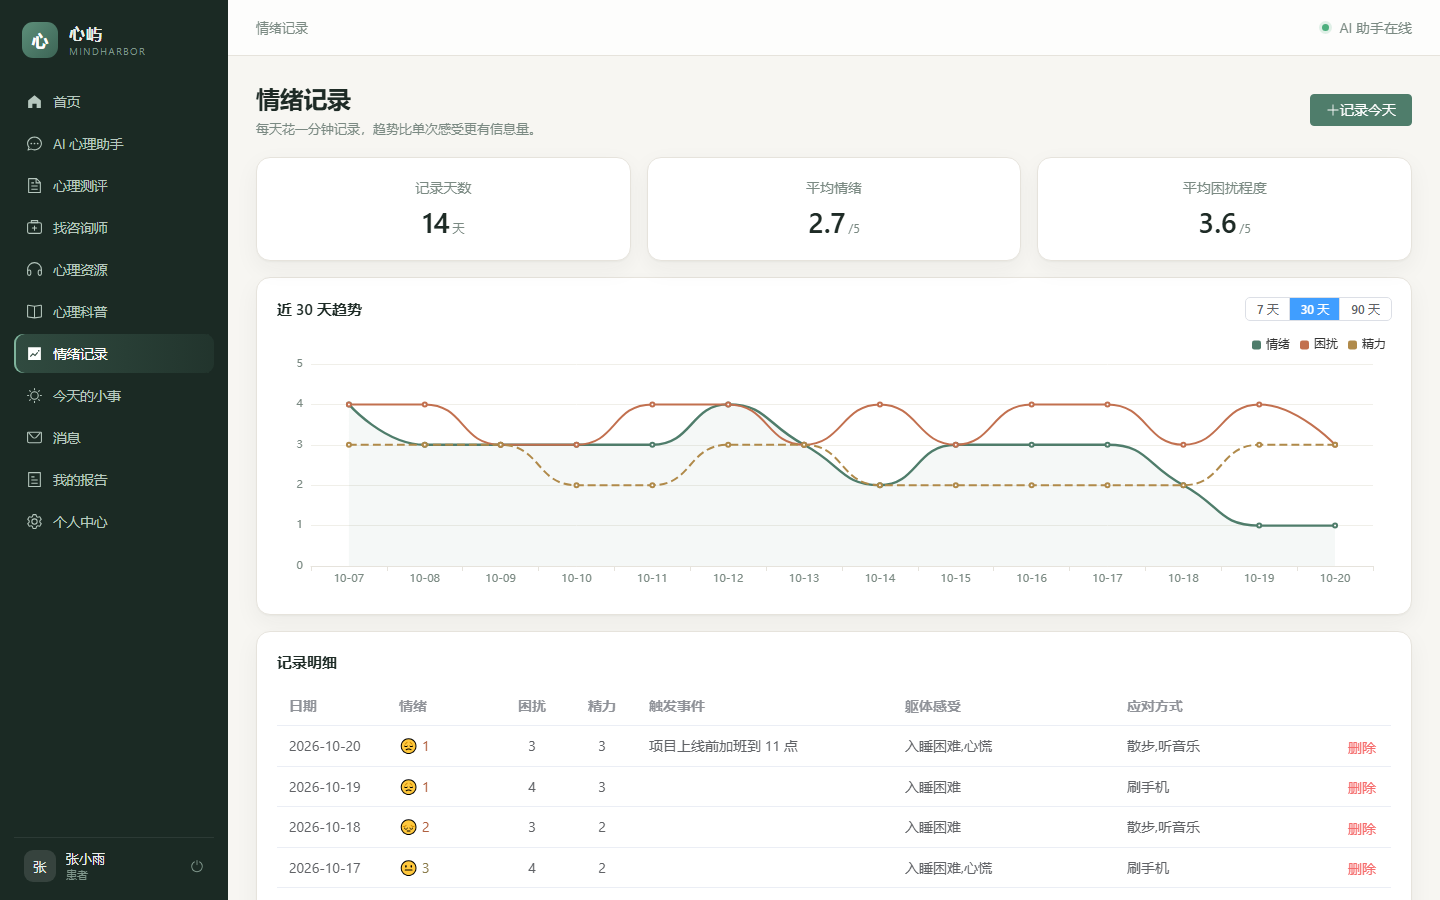
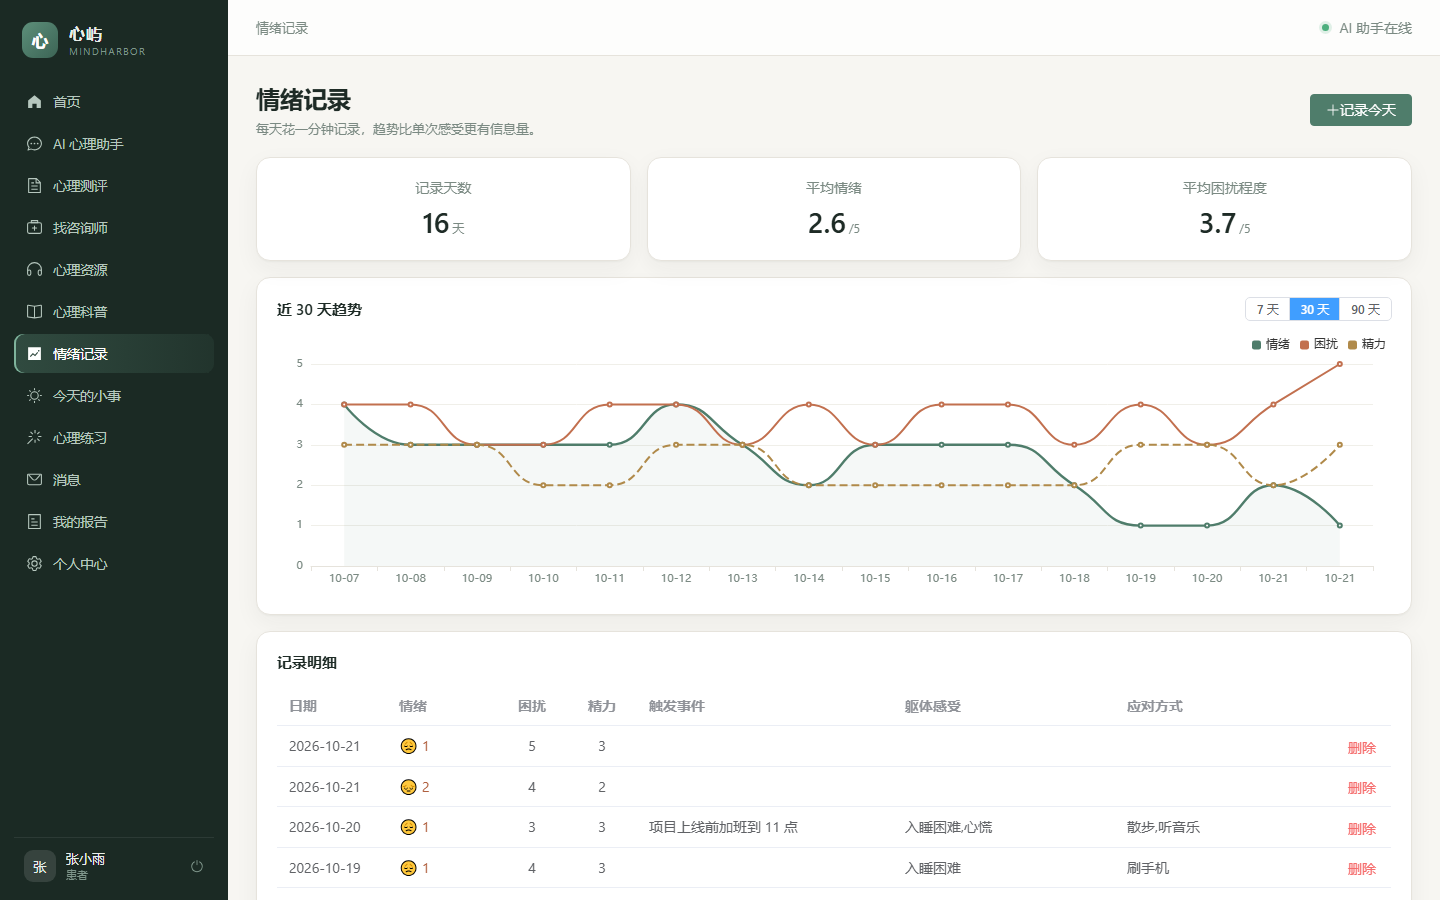
docs: 更新效果截图
- 全部页面按当前版本重拍（含移动端适配、AI 伙伴小球、心理练习入口）
- 新增心理练习页截图
- AI 助手配图说明改为「流式对话 + 表情伙伴」

diff --git a/README.md b/README.md
@@ -14,7 +14,7 @@
 <table>
 <tr>
 <td width="33%"><img src="docs/screenshots/01-home.png" alt="患者首页"><br><sub>首页 · 情绪概览与推荐</sub></td>
-<td width="33%"><img src="docs/screenshots/02-ai.png" alt="AI 心理助手"><br><sub>AI 助手 · 流式对话 + 技能调用</sub></td>
+<td width="33%"><img src="docs/screenshots/02-ai.png" alt="AI 心理助手"><br><sub>AI 助手 · 流式对话 + 表情伙伴</sub></td>
 <td width="33%"><img src="docs/screenshots/03-symptoms.png" alt="情绪记录"><br><sub>情绪记录 · 趋势图与明细</sub></td>
 </tr>
 <tr>
@@ -23,7 +23,7 @@
 <td><img src="docs/screenshots/06-doctors.png" alt="找咨询师"><br><sub>找咨询师 · 筛选与申请</sub></td>
 </tr>
 <tr>
-<td colspan="3"><img src="docs/screenshots/10-practice.png" alt="心理练习"><br><sub>心理练习 · 呼吸引导 / 思维记录 / 身体扫描</sub></td>
+<td colspan="3"><img src="docs/screenshots/10-practice.png" alt="心理练习"><br><sub>心理练习 · 4-7-8 呼吸 / 思维记录 / 身体扫描（只记「做过」，不做打卡）</sub></td>
 </tr>
 </table>
 
